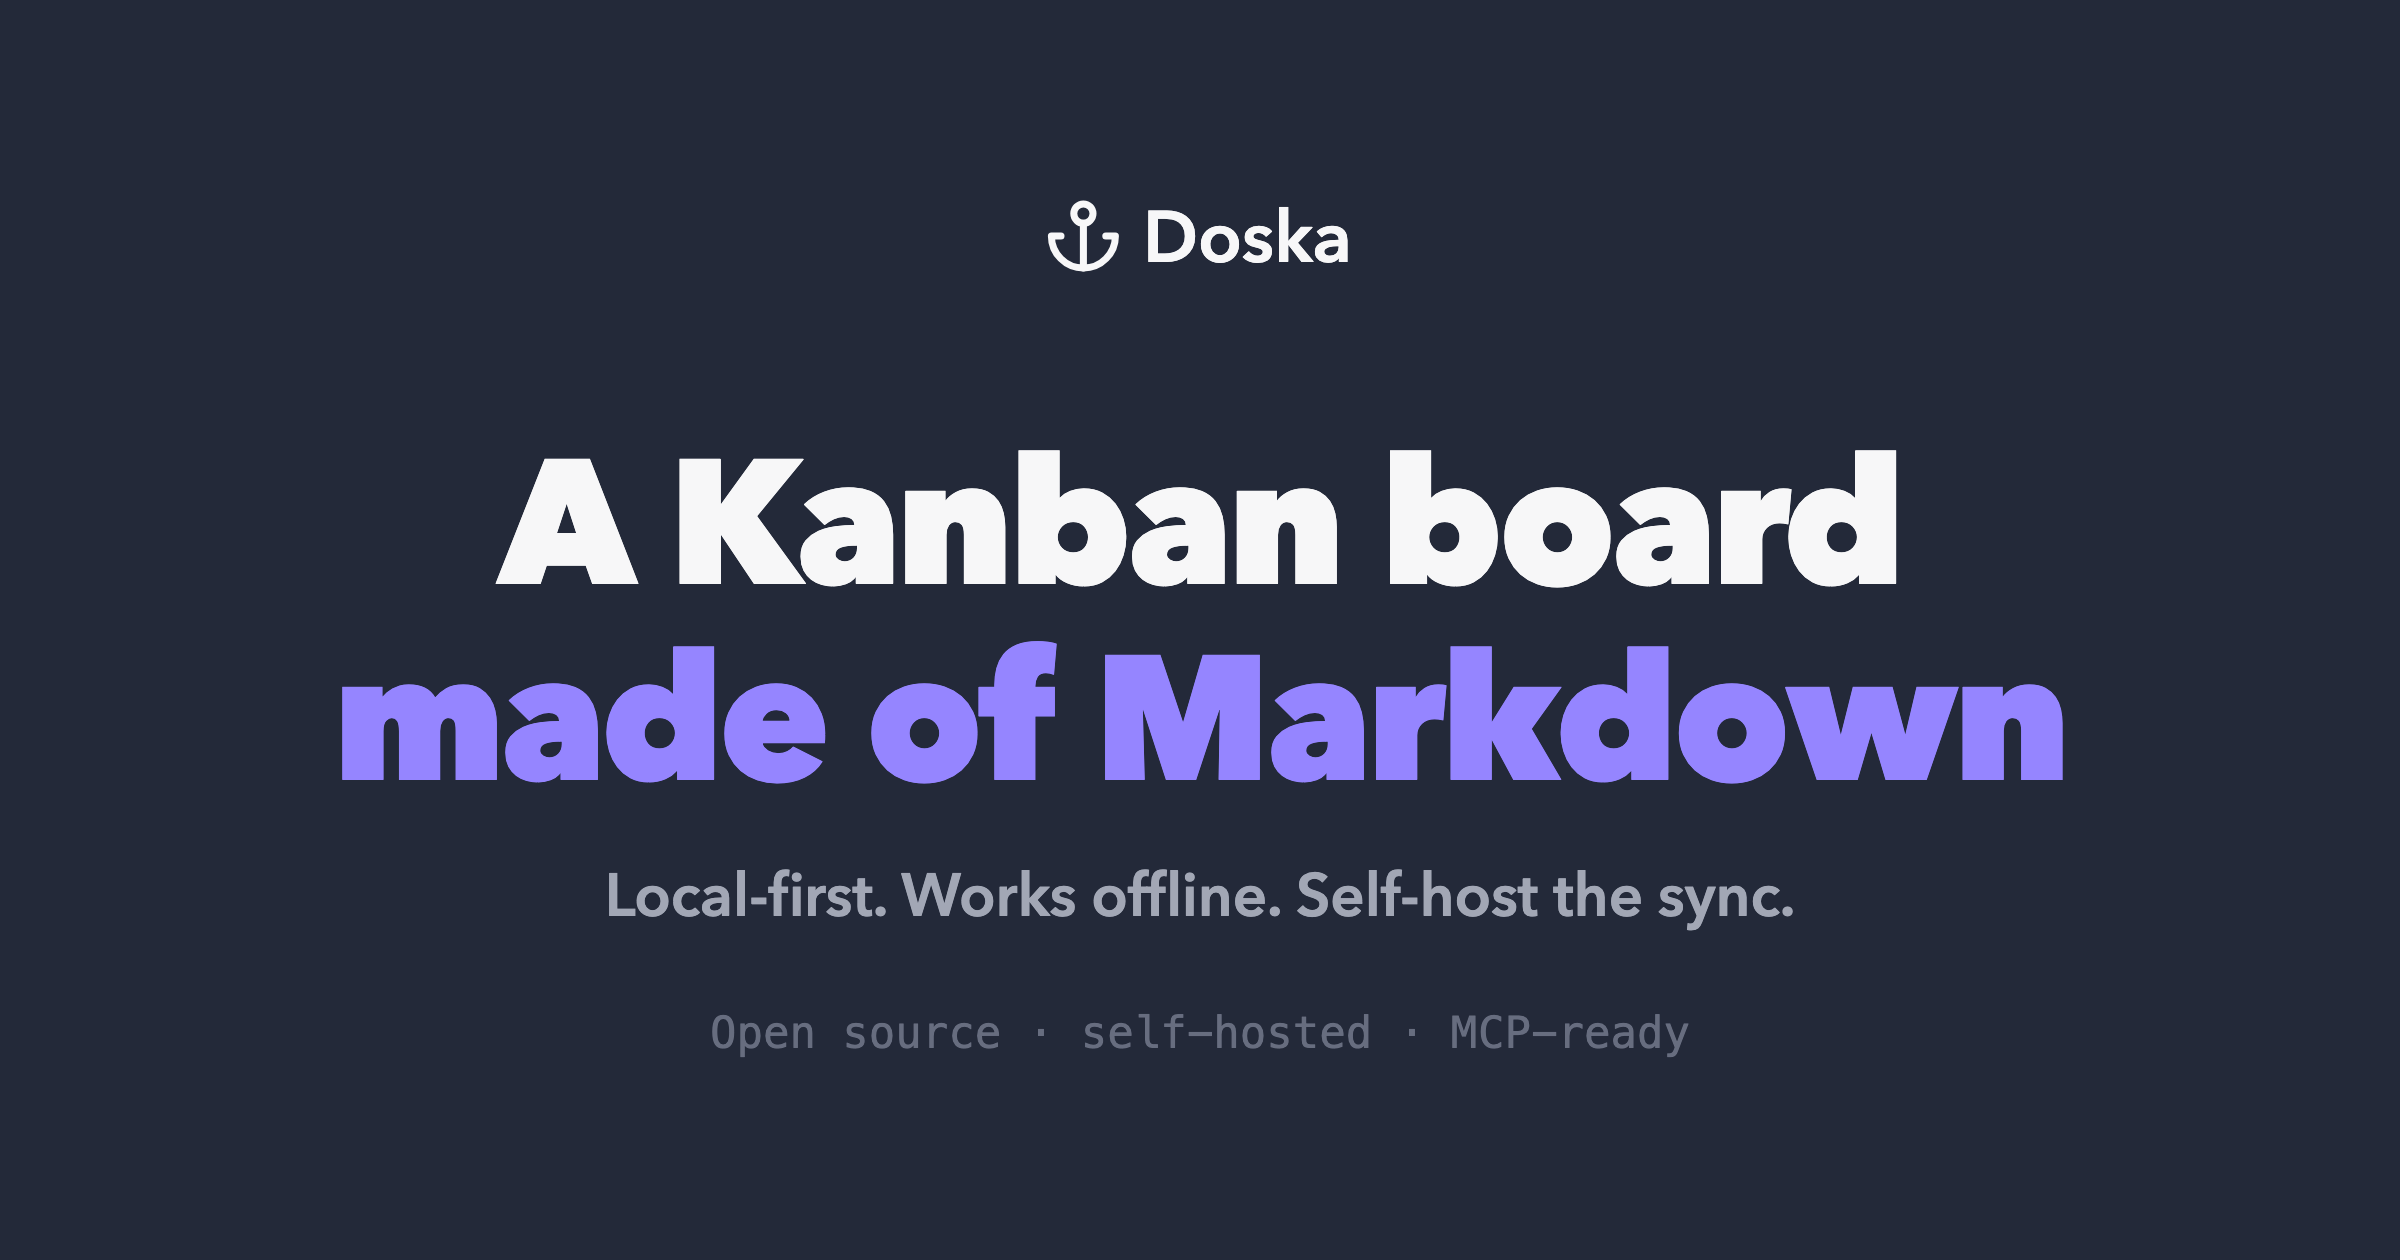
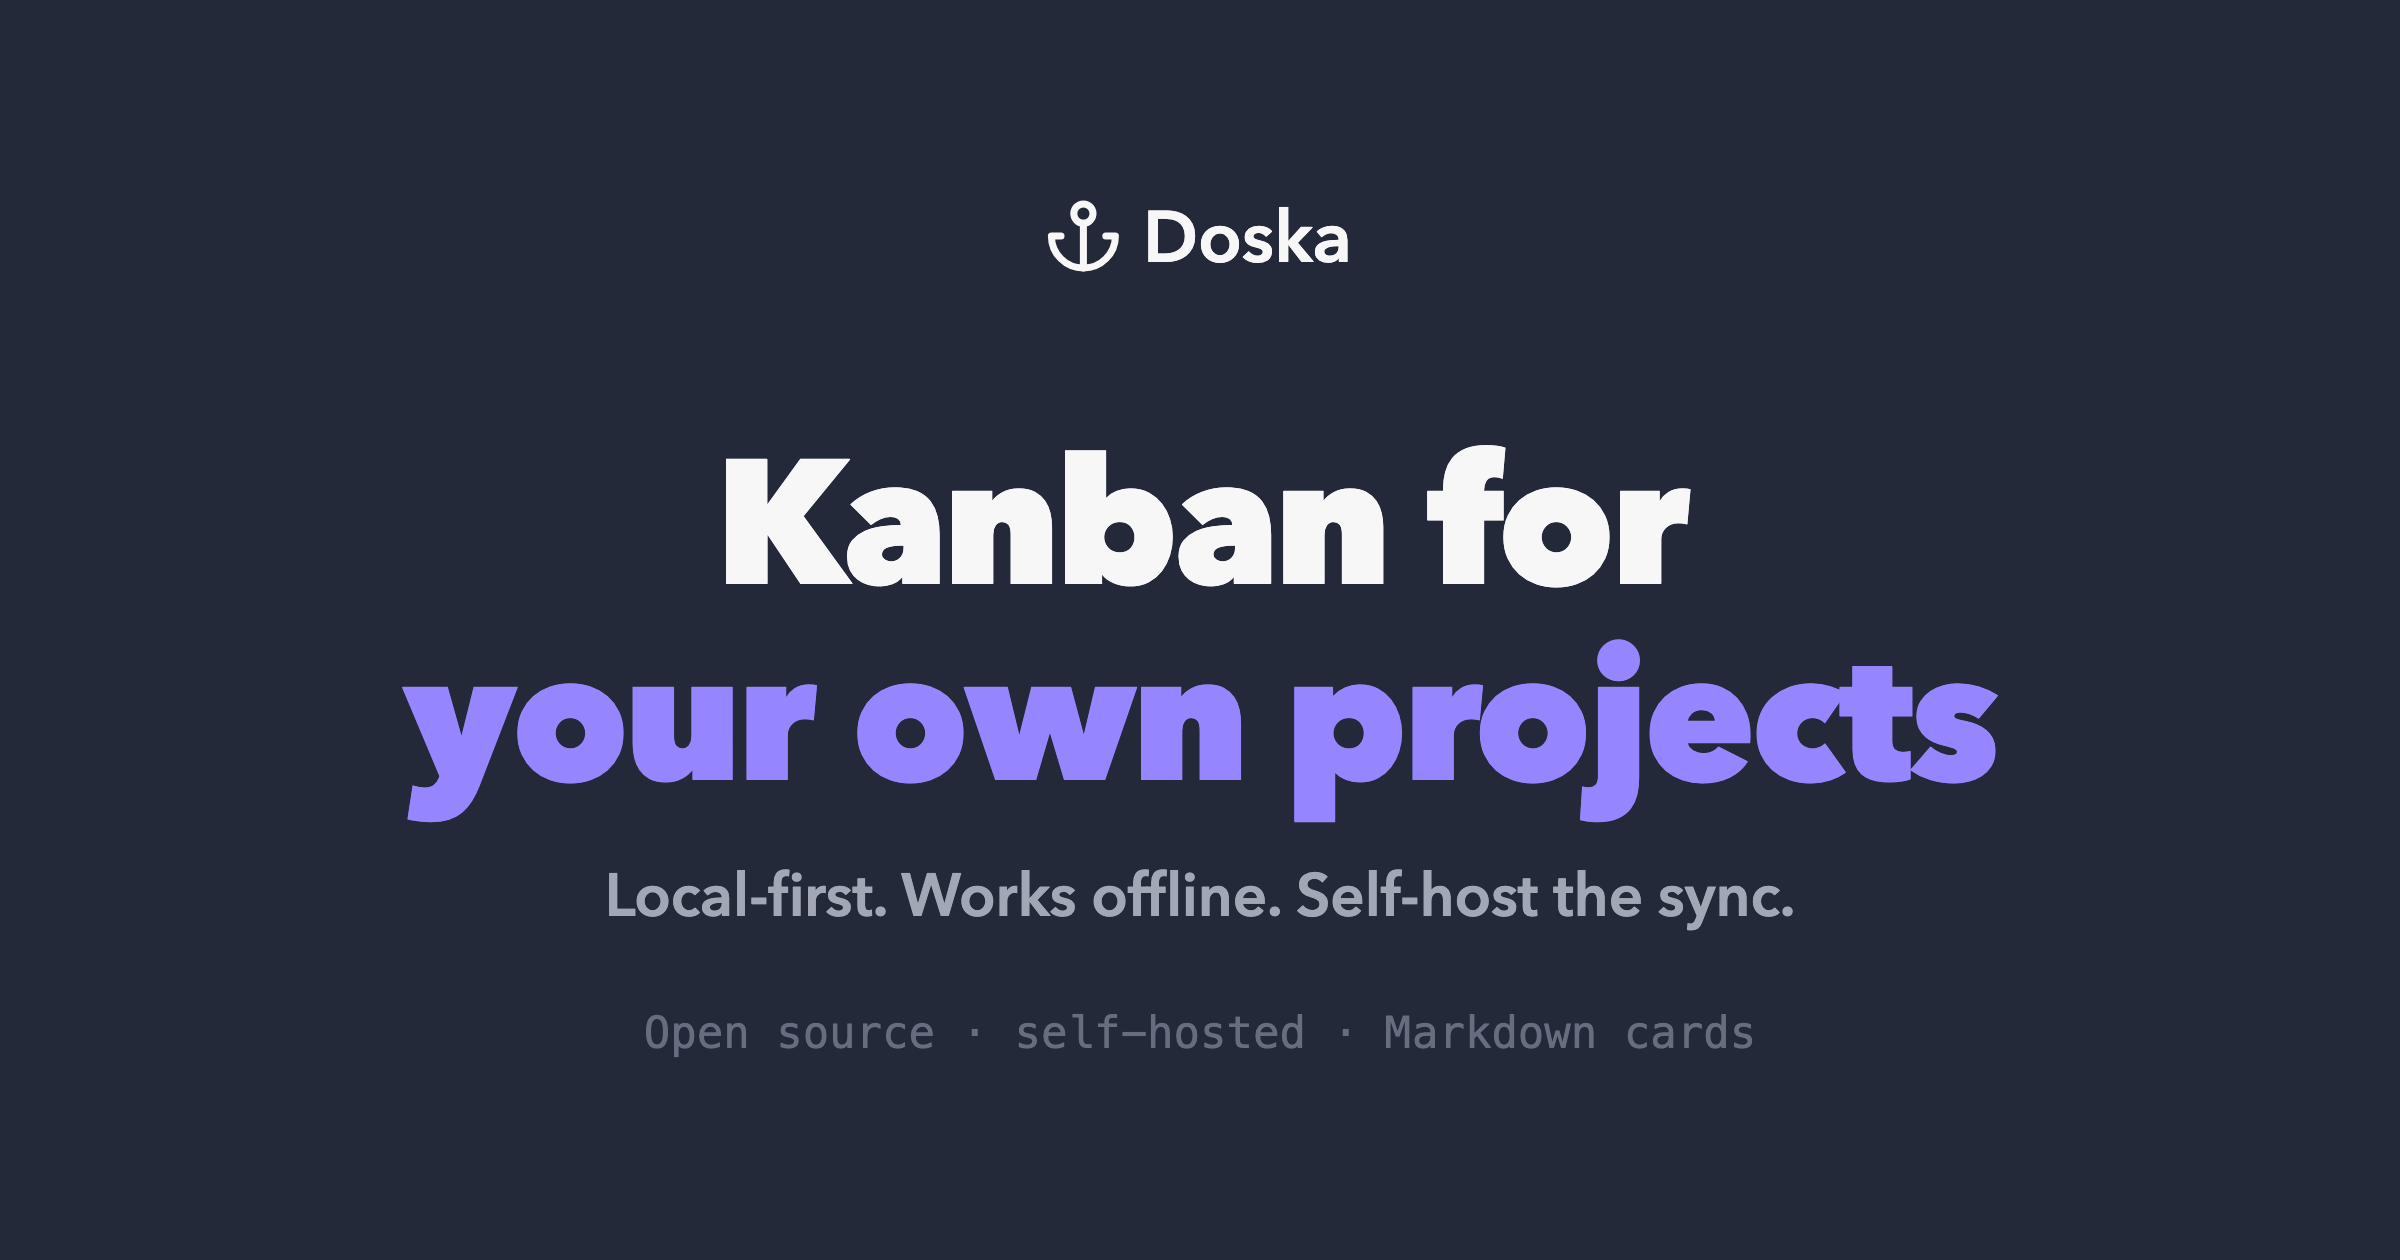
chore: readme

diff --git a/README.md b/README.md
@@ -1,9 +1,9 @@
 <div align="center">
 
 <picture>
-  <source media="(prefers-color-scheme: dark)" srcset=".github/assets/banner-hero-dark.png">
-  <source media="(prefers-color-scheme: light)" srcset=".github/assets/banner-hero-light.png">
-  <img alt="Doska: a Kanban board made of Markdown" src=".github/assets/banner-hero-light.png" width="820">
+  <source media="(prefers-color-scheme: dark)" srcset=".github/assets/hero-dark-v2.png">
+  <source media="(prefers-color-scheme: light)" srcset=".github/assets/hero-light-v2.png">
+  <img alt="Doska: Kanban for your own projects" src=".github/assets/hero-light-v2.png" width="820">
 </picture>
 
 <p align="center">
@@ -20,7 +20,8 @@
   <strong><a href="https://app.doska.sh/d/welcome">Open demo</a></strong> ·
   <a href="https://doska.sh/docs">Documentation</a> ·
   <a href="https://github.com/romenkova/doska/releases/latest">Download for macOS</a> ·
-  <a href="https://app.doska.sh/p/2af2848df270cb5b8a4e73e7a362b19b">Roadmap</a>
+  <a href="https://app.doska.sh/p/2af2848df270cb5b8a4e73e7a362b19b">Roadmap</a> ·
+  <a href="https://doska.sh/docs/mcp">MCP</a>
 </p>
 
 <picture>
